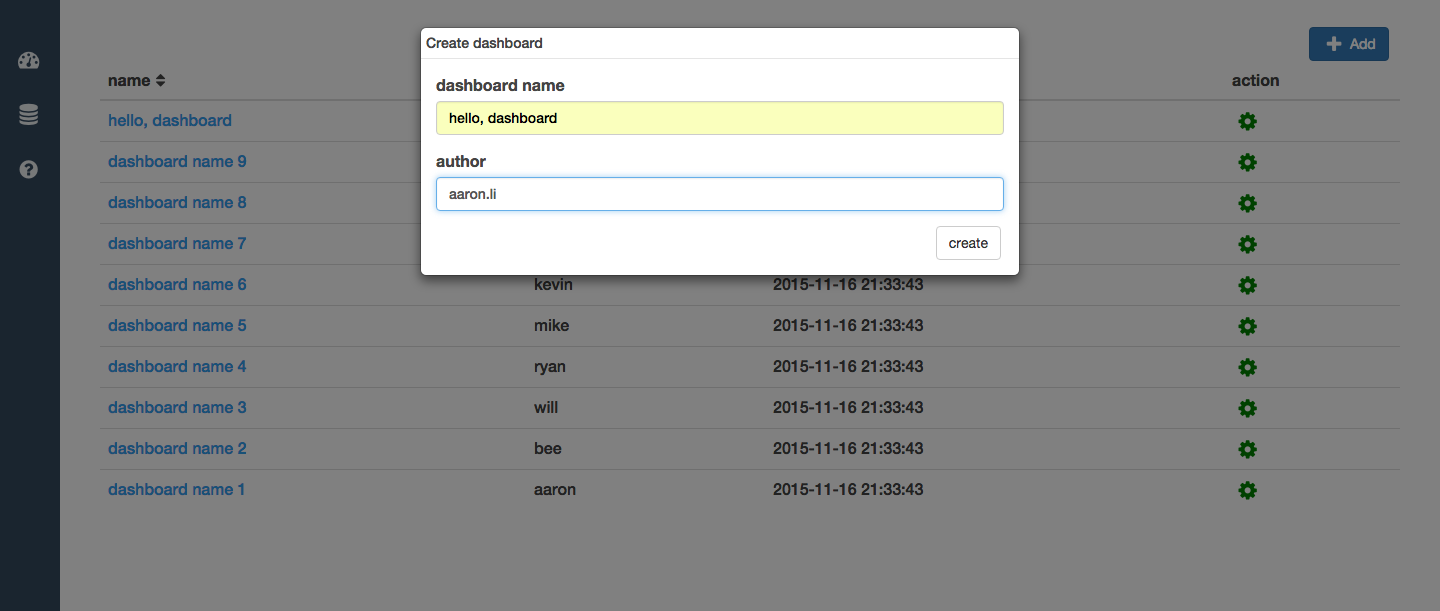
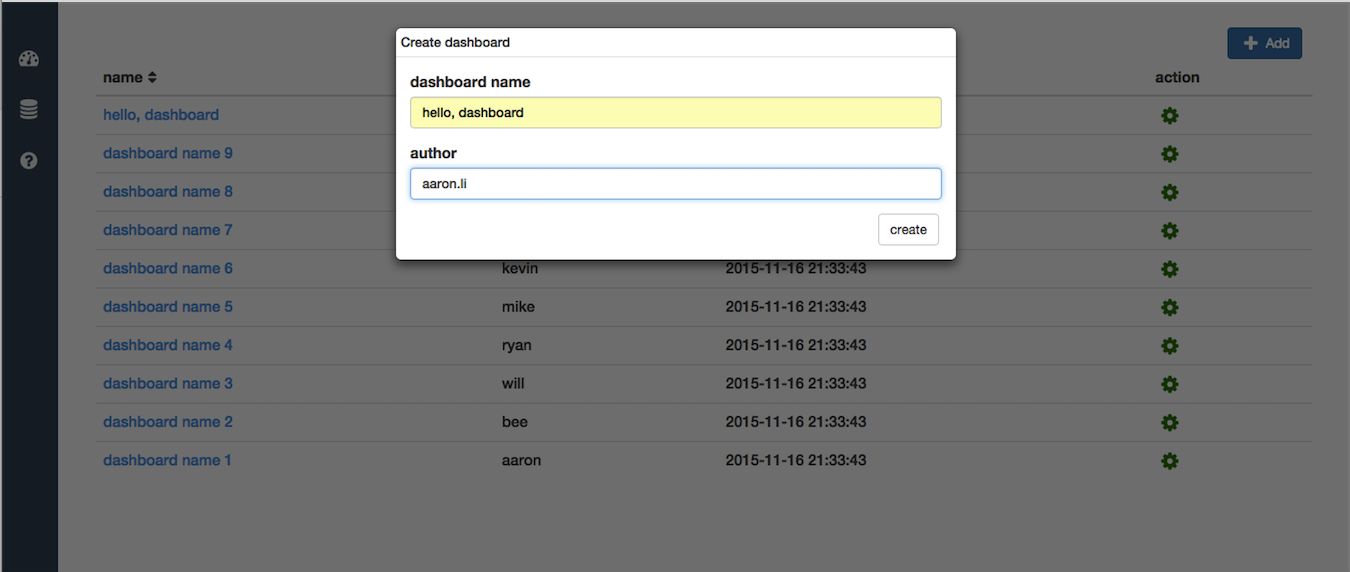
add a pushbish to pypi script change screen shot size update readme

diff --git a/setup.py b/setup.py
@@ -5,9 +5,13 @@ import io
 from setuptools import find_packages, setup
 
 
+def load_readme():
+    readme_file = "README.md" if "README.md" in os.listdir(".") else "README.rst"
+    return io.open(readme_file, encoding='utf8').read()
+
 setup(
     name="IPython-Dashboard",
-    version='0.1.2',
+    version='0.1.3',
     author="Taotao Li",
     author_email="taotao.engineer@gmail.com",
     url="https://github.com/litaotao/IPython-Dashboard",
@@ -17,7 +21,7 @@ setup(
     package_dir={"dashboard": "dashboard"},
     include_package_data=True,
     description="An stand alone, light-weight web server for building, sharing graphs in created in ipython. Let ipython do what it focus, let this do what everyone needs for building a interactive, collaborated and real-time streaming dashboards.",
-    long_description=io.open("README.md", encoding='utf8').read(),
+    long_description=load_readme(),
     install_requires=io.open("requirements.txt", encoding='utf8').read(),
     classifiers=['Intended Audience :: Science/Research',
                  'Intended Audience :: Developers',

diff --git a/README.md b/README.md
@@ -34,7 +34,7 @@ A stand alone, light-weight web server for building, sharing graphs created in I
 - if you want a real-time graph.
 - if you want an collaborated graph/dashboard.
 
-![wise-choice](docs/wise-choice.jpg)
+![wise-choice](https://raw.githubusercontent.com/litaotao/IPython-Dashboard/master/docs/wise-choice.jpg)
 
 
 # Screenshot and Demo
@@ -42,11 +42,11 @@ A stand alone, light-weight web server for building, sharing graphs created in I
 [Demo on Youtube](https://youtu.be/LOWBEYDkn90)     
 [Demo on Youku](http://v.youku.com/v_show/id_XMTM3MTc5MTAwMA)
 
-![screenshot](docs/template-screenshot-0.1.3-1.jpg)
+![screenshot](https://raw.githubusercontent.com/litaotao/IPython-Dashboard/master/docs/template-screenshot-0.1.3-1.jpg)
 
-![screenshot](docs/template-screenshot-0.1.2-2.jpg)
+![screenshot](https://raw.githubusercontent.com/litaotao/IPython-Dashboard/master/docs/template-screenshot-0.1.2-2-small.jpg)
 
-![screenshot](docs/template-screenshot-0.1.2-3.jpg)
+![screenshot](https://raw.githubusercontent.com/litaotao/IPython-Dashboard/master/docs/template-screenshot-0.1.2-3-small.jpg)
 
 
 
